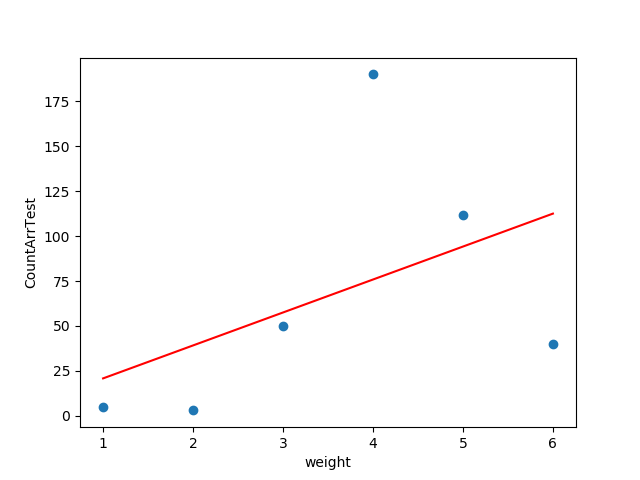
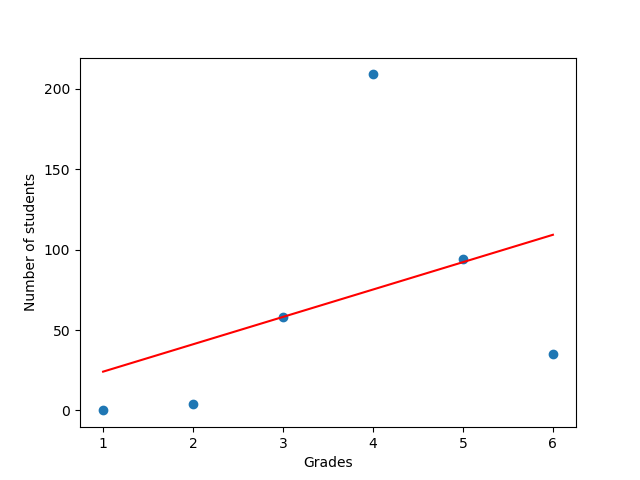
Fixid css

diff --git a/templates/index.html b/templates/index.html
@@ -57,7 +57,7 @@
                 <div class="row align-items-center">
 
                     <div class="col-6 col-md-3 col-xl-4  d-block">
-                        <h1 class="mb-0 site-logo"><a href="index.html" class="text-black h2 mb-0">IThink<span class="text-primary">.</span> </a></h1>
+                        <h1 class="mb-0 site-logo"><a href="/" class="text-black h2 mb-0">IThink<span class="text-primary">.</span> </a></h1>
                     </div>
 
                     <div class="col-12 col-md-9 col-xl-8 main-menu">
@@ -69,16 +69,7 @@
                                 <li class="has-children">
                                     <a href="#about-section" class="nav-link">About Us</a>
                                     <ul class="dropdown arrow-top">
-                                        <li><a href="#" target="_blank" class="nav-link"><span class="text-primary">More Free Templates</span></a></li>
                                         <li><a href="#our-team-section" class="nav-link">Our Team</a></li>
-                                        <li class="has-children">
-                                            <a href="#">More Links</a>
-                                            <ul class="dropdown">
-                                                <li><a href="#">Menu One</a></li>
-                                                <li><a href="#">Menu Two</a></li>
-                                                <li><a href="#">Menu Three</a></li>
-                                            </ul>
-                                        </li>
                                     </ul>
                                 </li>
                                 <li><a href="#testimonials-section" class="nav-link">Acknowledgment</a></li>
@@ -127,24 +118,21 @@
             <div class="container">
                 <form method="POST" enctype="multipart/form-data">
                     {% csrf_token %}
-                    <input type="file" name="myfile" /><br>
-
-                    <button type="submit" class="btn btn-primary mr-2 mb-2">Upload</button><br>
+                    <table>
+                        <tr>
+                            <td>
+                                <input type="file" name="myfile" style="margin-left: 126.5;" class="btn btn-primary mr-2 mb-2" />
+                            </td>
+                            <td>
+                                <button type="submit" style=" margin-right: 126.5;" class="btn btn-primary mr-2 mb-2">Upload</button>
+                            </td>
+                        </tr>
+                    </table>
                 </form>
+                <br><br>
                 <table>
                     <tr>
-                        <td>
-                            <p3 id="std">std: </p3>
-                        </td>
-                        <td>
-                            <p3 id="median">median:</p3>
-                        </td>
-                        <td>
-                            <p3 id="mean">mean:</p3>
-                        </td>
-                    </tr>
-                    <tr>
-                        <td><button id="show" onclick="show()">show result</button></td>
+                        <td><button id="show" onclick="show()" class="btn btn-primary mr-2 mb-2">show result</button></td>
                     </tr>
                     <td>
                         <td>

diff --git a/buttonProject/views.py b/buttonProject/views.py
@@ -32,10 +32,9 @@ def index(request):
 
     base_dir = os.path.dirname(
         os.path.dirname(os.path.realpath(__file__)).replace("\\", "/"))
-  
 
     ###########################
-    #reading the file
+    # reading the file
     if request.method == 'POST':
         uploaded_file = request.FILES['myfile']
         fs = FileSystemStorage()
@@ -198,8 +197,8 @@ def index(request):
         fitted_values = model_fit.fittedvalues
         plt.scatter(weight, CountArrTest)
         plt.plot(weight, fitted_values, c='r')
-        plt.xlabel("weight")
-        plt.ylabel("CountArrTest")
+        plt.xlabel("Grades")
+        plt.ylabel("Number of students")
         plt.savefig(imagePathLin)
         print(model_fit.summary())
         #########################

diff --git a/manage.py b/manage.py
@@ -14,8 +14,6 @@ def main():
             "available on your PYTHONPATH environment variable? Did you "
             "forget to activate a virtual environment?") from exc
     execute_from_command_line(sys.argv)
-
-
 base_dir = os.path.dirname(
     os.path.dirname(os.path.realpath(__file__)).replace("\\", "/"))
 
